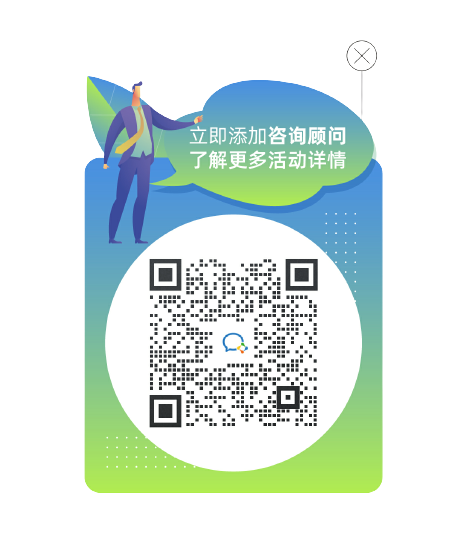
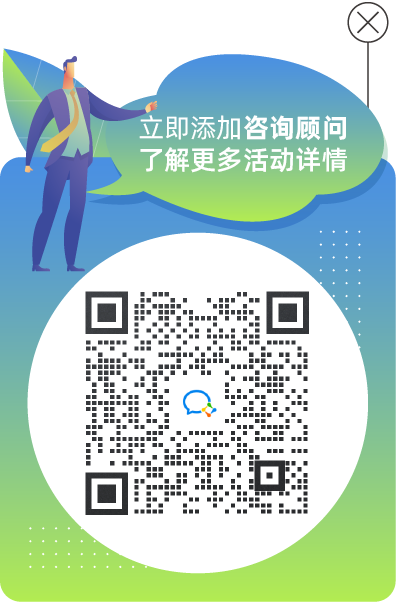
11.8调整

diff --git a/css/index.css b/css/index.css
@@ -362,8 +362,8 @@ span {
 }
 
 .erweima {
-  width: 21.0104vw;
-  height: 23.8333vw;
+  width: 20.0104vw;
+  height: 29.8333vw;
   position: relative;
   top: 10vw;
   /* left: -138px; */
@@ -800,10 +800,10 @@ span {
 }
 
 .erweima {
-  width: 94.0104vw;
+  width: 71.0104vw;
   height: 104.8333vw;
   top: 27vw;
-  left: 4vw;
+  left: 13vw;
 }
 
 .vipimgone {
